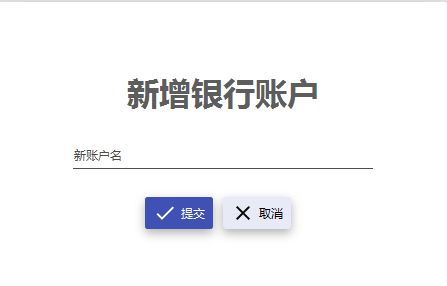
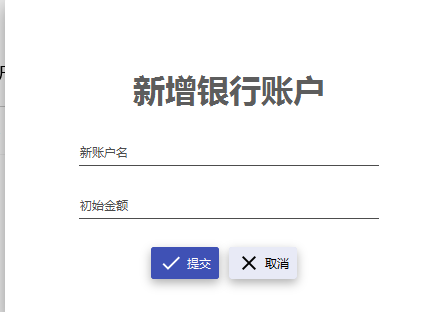
little changes to ui

diff --git a/docs/用户文档和管理员文档/财务人员.md b/docs/用户文档和管理员文档/财务人员.md
@@ -10,7 +10,7 @@
 
 ![新增银行账户](./img/银行管理/新增银行账户.png)
 
-填写一个名称，例如"ABC"，将会成功添加。
+填写一个名称，例如"ABC"，以及初始金额，点击**提交**，将会成功添加。
 
 ![新增银行账户成功](./img/银行管理/成功.png)
 
@@ -150,6 +150,9 @@
 接下来的操作同对应单据的填写操作。
 
 ![红冲](./img/经营历程表/红冲.png)
+
+点击**导出**按钮，将会弹出选择文件路径对话框。其默认文件名格式为：**经营历程表表-年\_月\_日-时\_分\_秒.xls**，其中时间为点击导出的时间。其他同[查看销售明细表](#2.3.19-查看销售明细表)。
+
 
 #### 2.3.21 查看经营情况表
 
